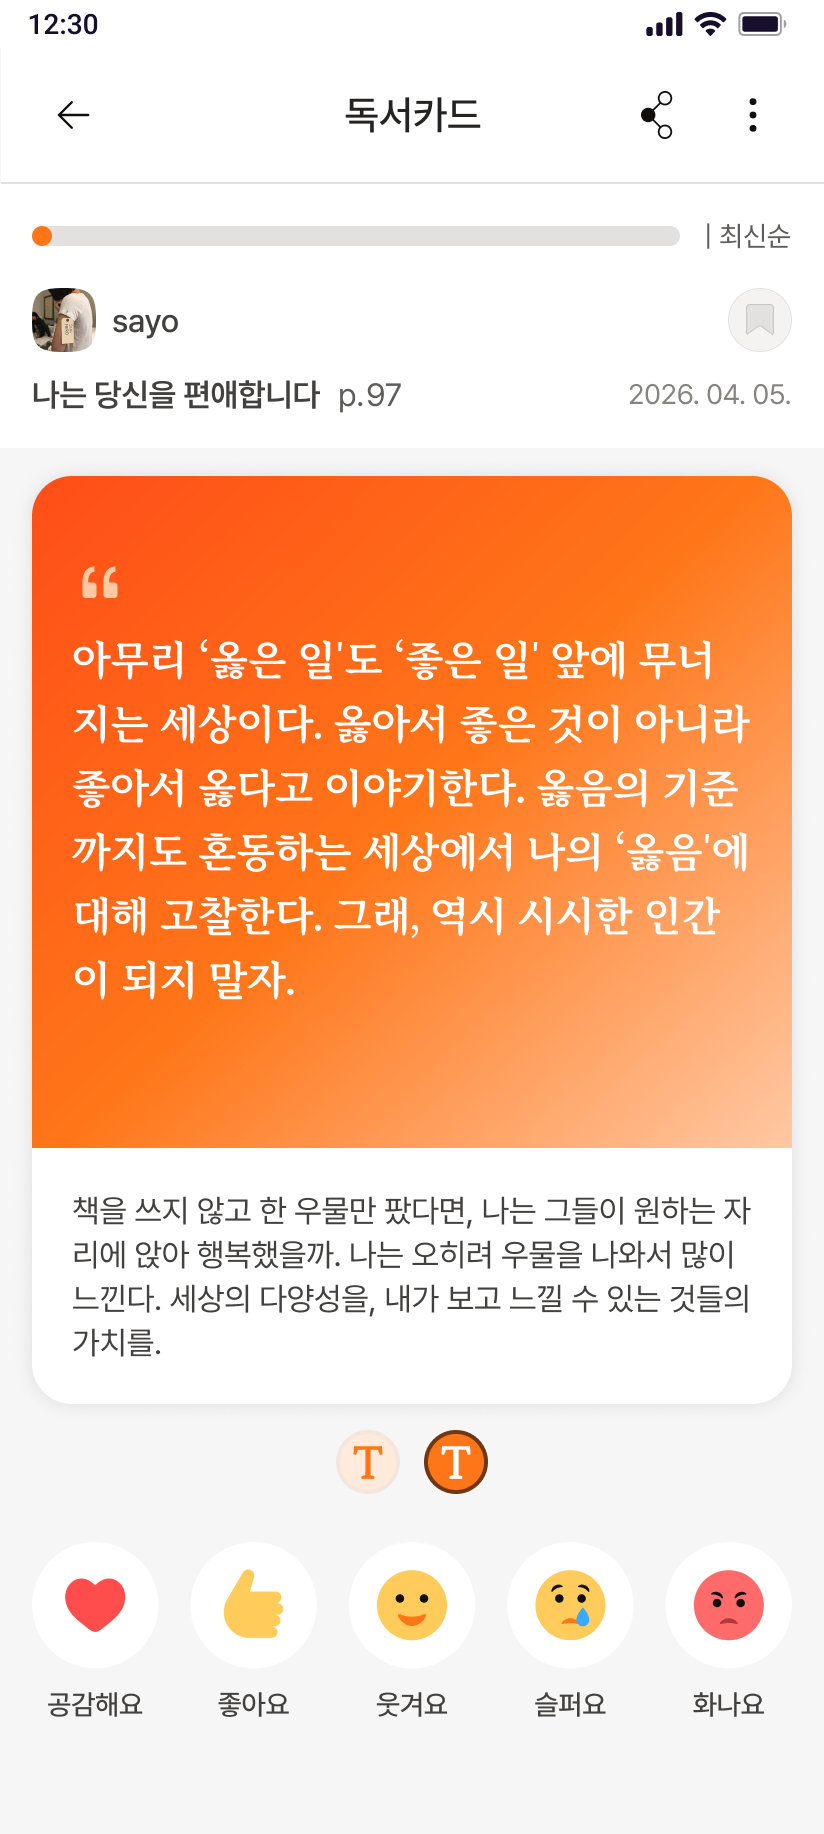
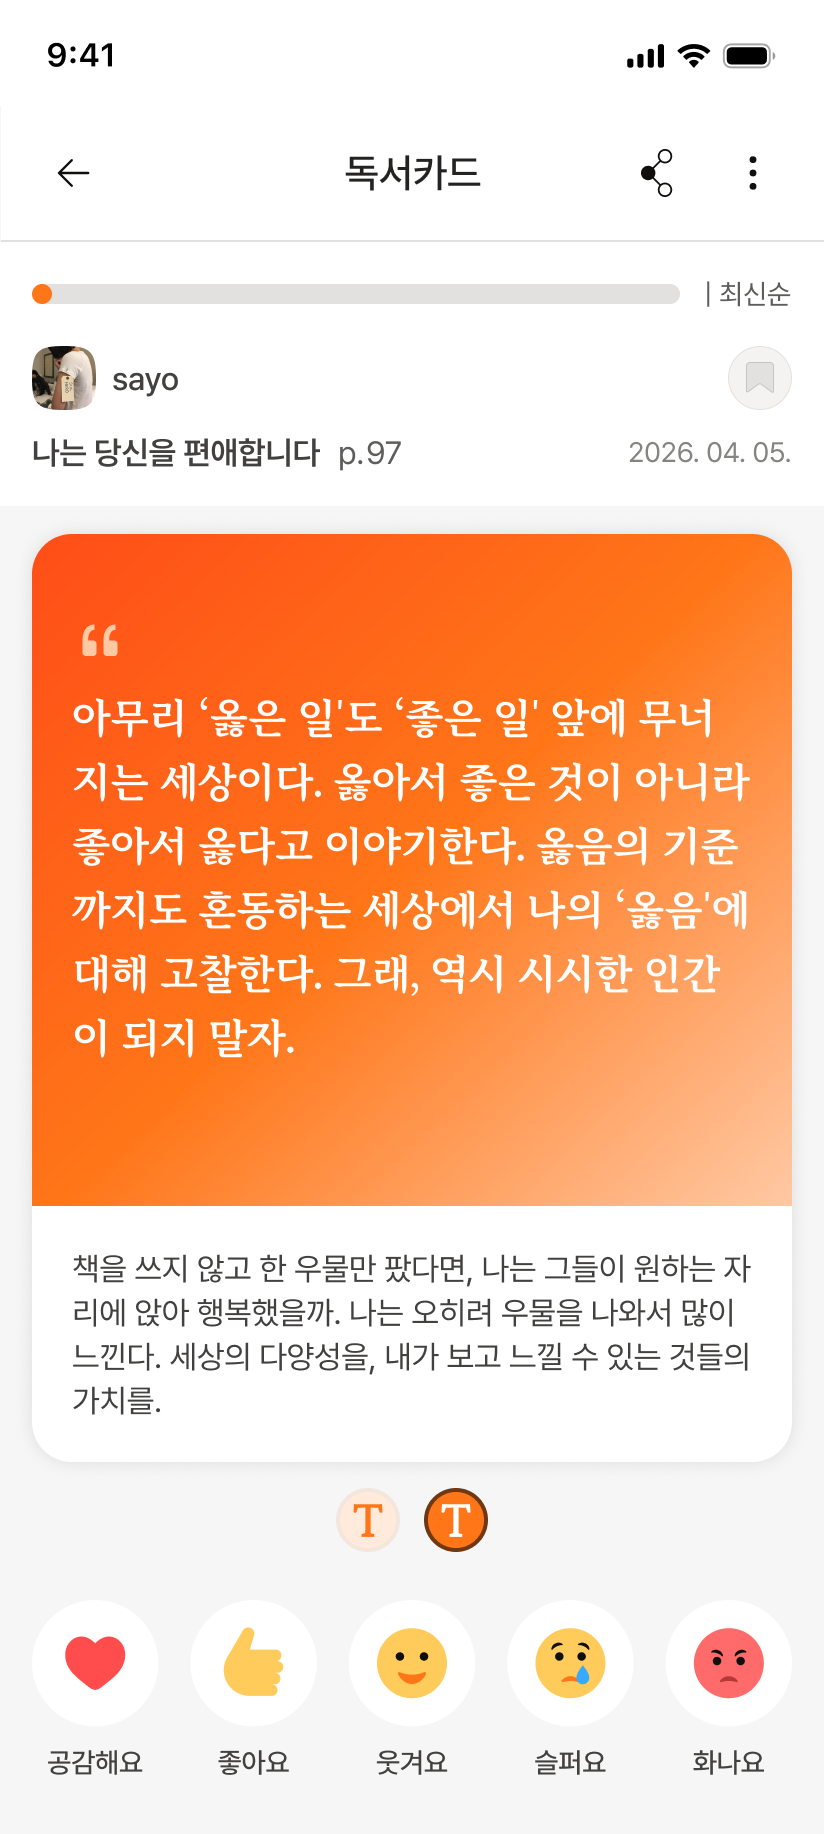
fix: Hero 폰 목업 비율을 412:917로 맞추고 마이페이지/독서카드 디자인 갱신

diff --git a/src/styles/global.css b/src/styles/global.css
@@ -186,11 +186,11 @@ section { position: relative; }
 /* =========================================================
    PHONES
    ========================================================= */
-.phones { position: relative; display: flex; align-items: flex-start; justify-content: center; min-height: 520px; isolation: isolate; }
+.phones { position: relative; display: flex; align-items: flex-start; justify-content: center; min-height: 580px; isolation: isolate; }
 .phone { background: black; border-radius: 36px; padding: 6px; box-shadow: 0 30px 60px -20px rgba(16,15,14,0.25), 0 10px 20px -10px rgba(16,15,14,0.15); position: relative; flex-shrink: 0; transition: transform 0.5s cubic-bezier(0.2,0.7,0.2,1); }
 .phone-inner { background: white; border-radius: 30px; overflow: hidden; width: 100%; height: 100%; position: relative; display: flex; flex-direction: column; }
-.phone-main { width: 240px; height: 480px; z-index: 2; }
-.phone-side { width: 200px; height: 400px; position: absolute; top: 80px; opacity: 0.92; filter: saturate(0.95); }
+.phone-main { width: 240px; height: 534px; z-index: 2; }
+.phone-side { width: 200px; height: 445px; position: absolute; top: 89px; opacity: 0.92; filter: saturate(0.95); }
 .phone-left { left: 0; transform: rotate(-4deg); }
 .phone-right { right: 0; transform: rotate(4deg); }
 .phones:hover .phone-main { transform: translateY(-6px); }
@@ -431,7 +431,7 @@ section { position: relative; }
   .stat-num { font-size: 22px; }
   .phone-side { display: none; }
   .phones { min-height: auto; justify-content: center; }
-  .phone-main { width: 220px; height: 440px; }
+  .phone-main { width: 220px; height: 490px; }
   .why-grid { grid-template-columns: 1fr; gap: 16px; }
   .why-card { padding: 28px; }
   .feature-row { grid-template-columns: 1fr; gap: 36px; margin-bottom: 80px; }
